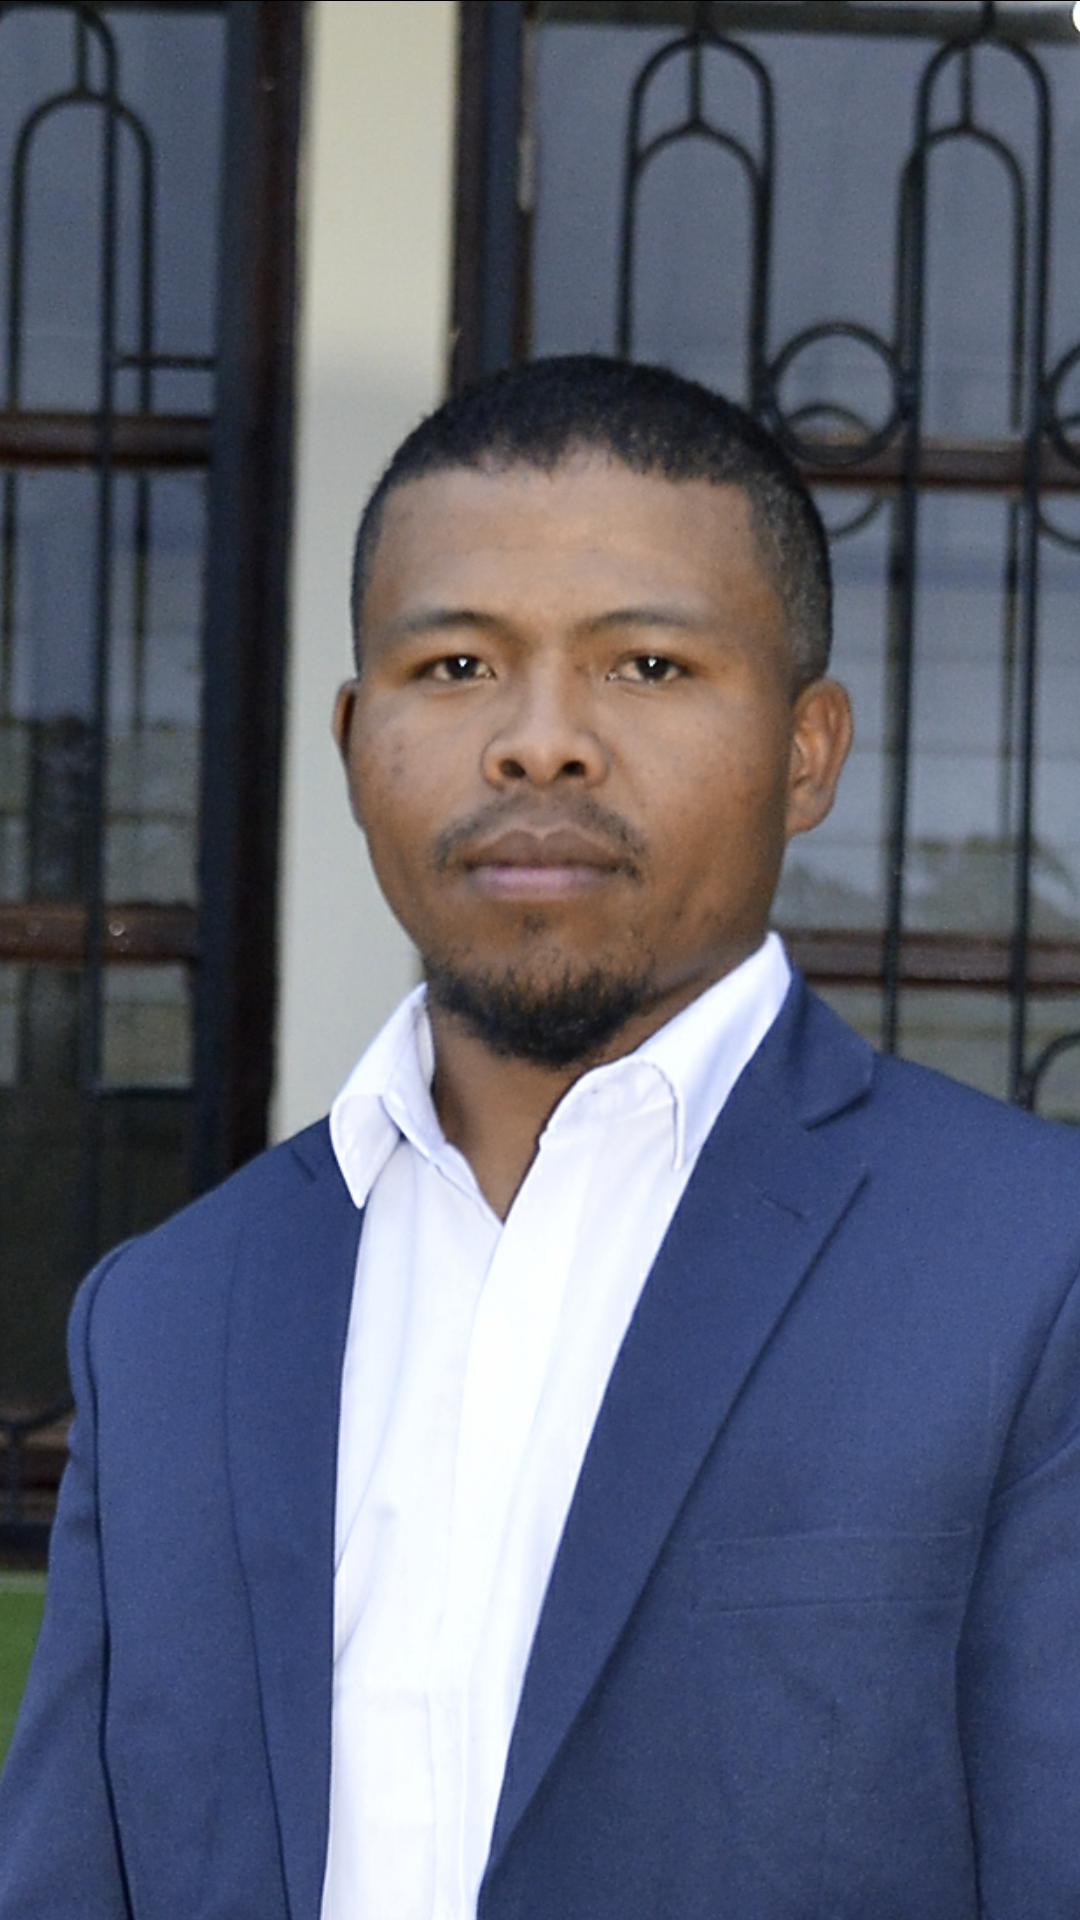
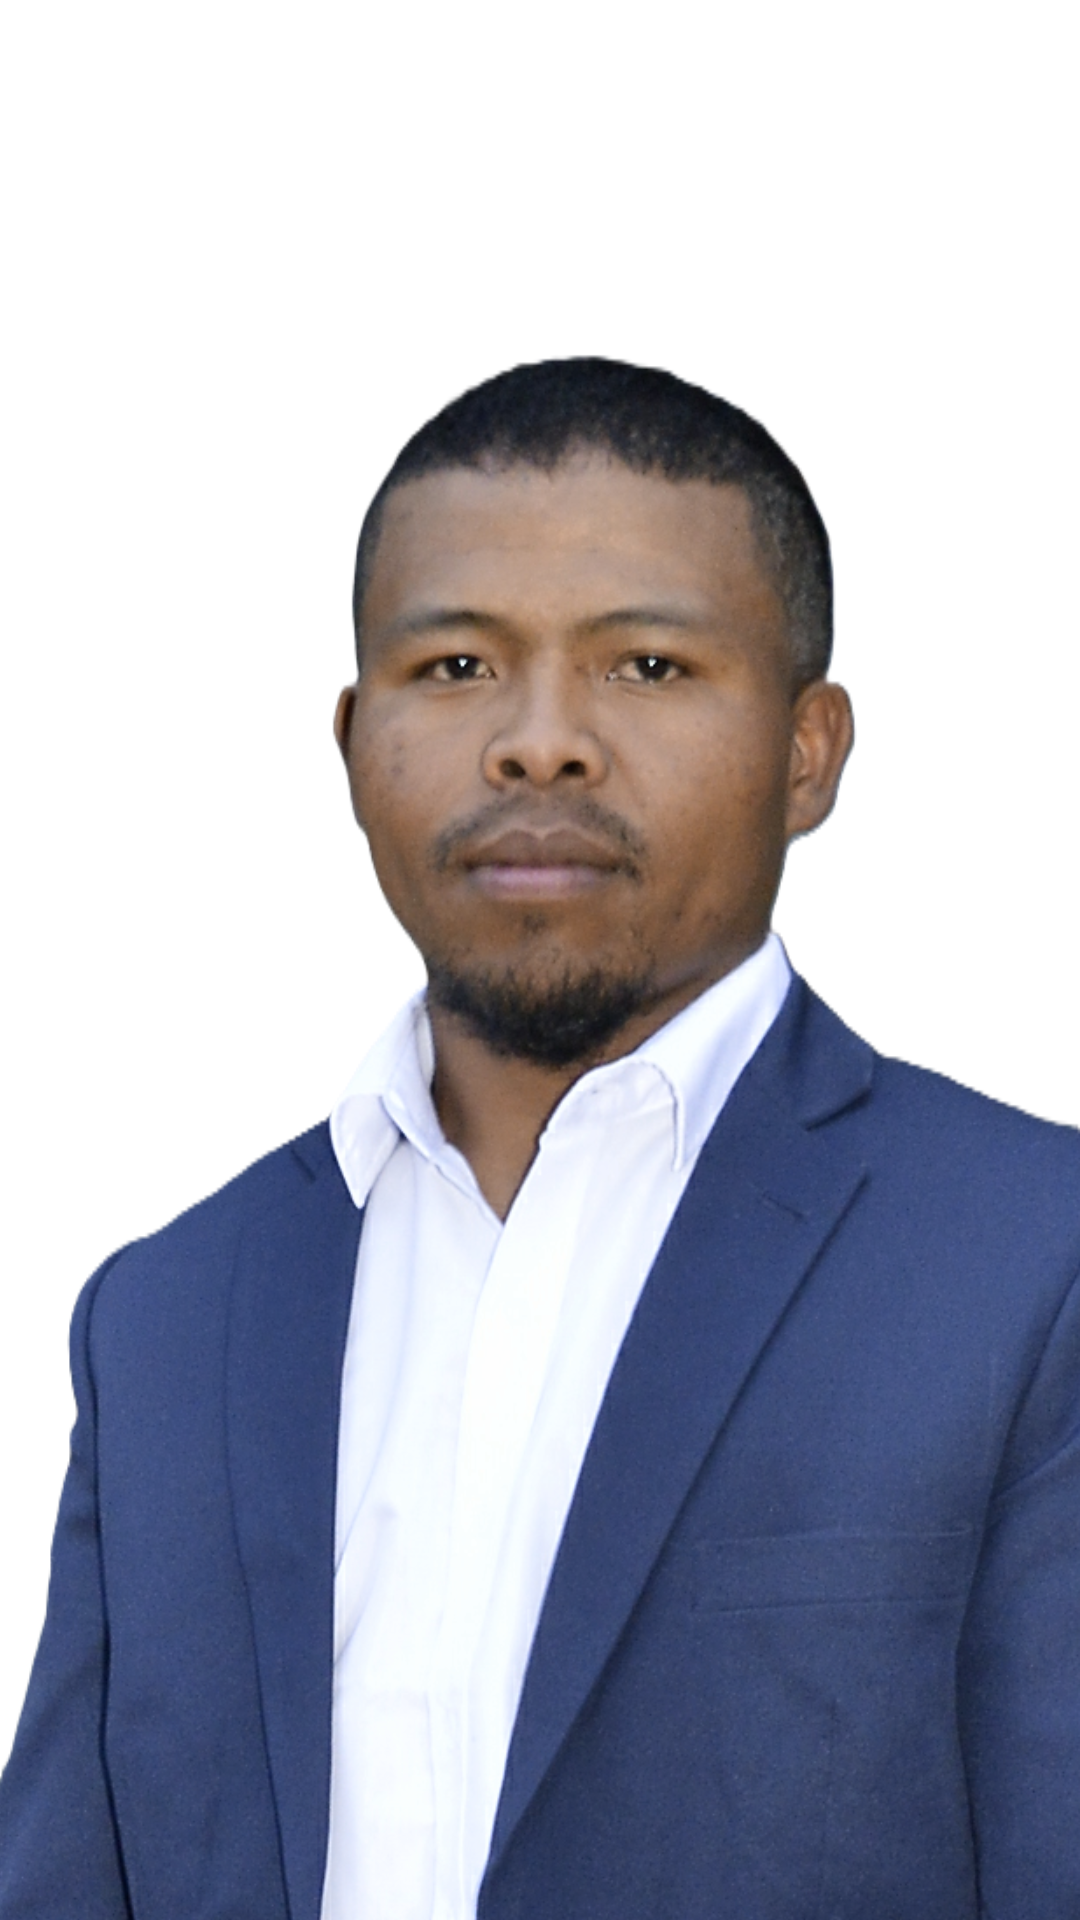
IMPROVE - optimize about component

diff --git a/src/components/Content/About/About.tsx b/src/components/Content/About/About.tsx
@@ -6,7 +6,7 @@ import saryko from "../../../assets/saryko.png";
 
 export const AboutMe: FC = () => {
   const [animatedText, setAnimatedText] = useState("");
-  const fullText = "Hello Rufin";
+  const fullText = "Je suis Ruffin !";
 
   useEffect(() => {
     let index = 0;
@@ -22,7 +22,7 @@ export const AboutMe: FC = () => {
   }, []);
 
   const StyledContainer = styled(Box)(({ theme }) => ({
-    width: "85%",
+    width: "100%",
     margin: "0 auto",
     display: "flex",
     alignItems: "center",
@@ -38,11 +38,12 @@ export const AboutMe: FC = () => {
 
   const ImageBox = styled(Box)(({ theme }) => ({
     flex: "0 0 auto",
-    width: "150px",
-    height: "150px",
-    borderRadius: "50%",
+    width: "350px",
+    height: "40S0px",
     overflow: "hidden",
     position: "relative",
+    bottom: "150px",
+    right: "15px",
     "&::before": {
       content: '""',
       position: "absolute",
@@ -50,8 +51,7 @@ export const AboutMe: FC = () => {
       left: 0,
       right: 0,
       bottom: 0,
-      backgroundColor: "rgba(0, 0, 0, 0.3)",
-      borderRadius: "50%",
+      // borderRadius: "50%",
     },
     img: {
       width: "100%",
@@ -71,6 +71,7 @@ export const AboutMe: FC = () => {
 
   const StyledH1 = styled("h1")(({ theme }) => ({
     color: theme.palette.text.primary,
+    width: "75%",
     fontSize: "1.2rem",
     lineHeight: "1.6",
     margin: 0,
@@ -81,11 +82,11 @@ export const AboutMe: FC = () => {
 
   const AnimatedText = styled("div")(({ theme }) => ({
     position: "absolute",
-    top: "-40px",
+    top: "-80px",
     left: 0,
     width: "100%",
-    textAlign: "center",
-    fontSize: "1.5rem",
+    textAlign: "start",
+    fontSize: "3.5rem",
     fontWeight: "bold",
     color: theme.palette.primary.main,
   }));

diff --git a/public/index.html b/public/index.html
@@ -24,7 +24,7 @@
       work correctly both with client-side routing and a non-root public URL.
       Learn how to configure a non-root public URL by running `npm run build`.
     -->
-    <title>Portfolio_de_Rufin</title>
+    <title>Portfolio_de-rf</title>
   </head>
   <body>
     <noscript>You need to enable JavaScript to run this app.</noscript>
